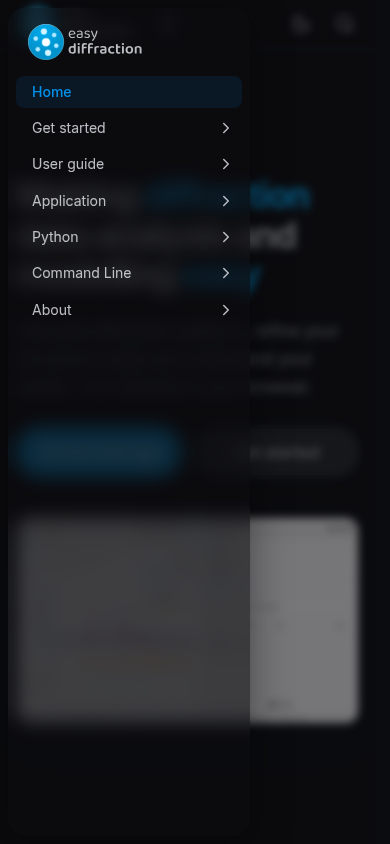
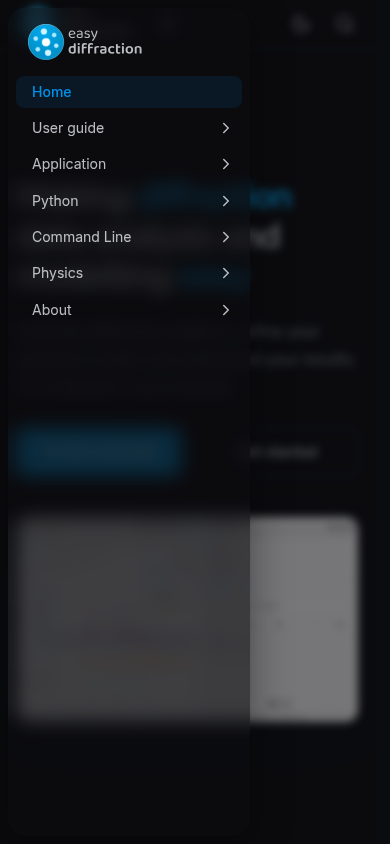
docs: save updated preview screenshots and verification evidence

diff --git a/website-concepts/README.md b/website-concepts/README.md
@@ -78,3 +78,9 @@ The proposed architecture and remaining production work are recorded in ADR-0053
 The selected preview now has `Home · User guide · Application · Python · Command Line · Physics · About`. Each interface follows Start here, Project, Structure, Experiment, Analysis and Report. The homepage button enters the User guide; setup and first steps live under the relevant interface. Physics supplies model/equation anchors and a JSON catalogue; the build also emits plain Markdown under `reference/` and a root `llms.txt`. The feature matrix separates current four-interface coverage from planned scientific models.
 
 The preview's main branch is a work-in-progress review surface: push incremental changes directly to main so the owner can follow them on Pages. A completed production migration is not required before publishing an increment.
+
+Browser verification is recorded in `screenshots/surfaces-browser-checks.json`, produced by `python website-concepts/capture.py surfaces`. It checks every Physics page with mathematical markup, requires every equation wrapper to contain rendered SVG, catches missing local assets and JavaScript errors, verifies accessible SVG feature-status icons, and exercises the homepage, feature table and long-equation page across its declared responsive widths. Header/drawer branding and theme switching remain part of the same check. The check uses installed Chromium; no Safari/WebKit run is claimed.
+
+For visual review, see `screenshots/surfaces-home.png`, `screenshots/surfaces-features.png`, `screenshots/surfaces-physics-displacement.png` and `screenshots/surfaces-physics-mobile-dark.png`.
+
+The all-page report records its source commit. `screenshots/surfaces-final-checks.json` records the subsequent focused verification after native SVG feature icons were enabled, including the reported ADP page, numbered background bibliography and narrow/wide layouts. One intervening long browser session closed unexpectedly during a late viewport resize; its failed run is not represented as a successful report. The isolated follow-up passed. Scientific feature coverage was audited from the declared source snapshot; this documentation work did not rerun the native numerical comparison suites.
